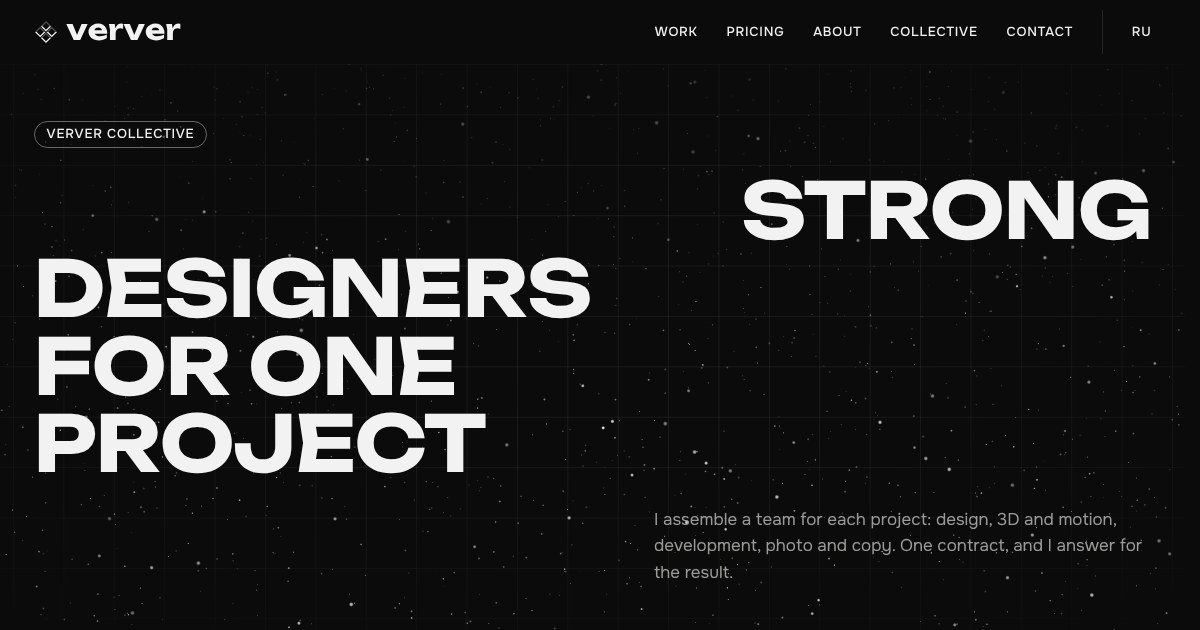
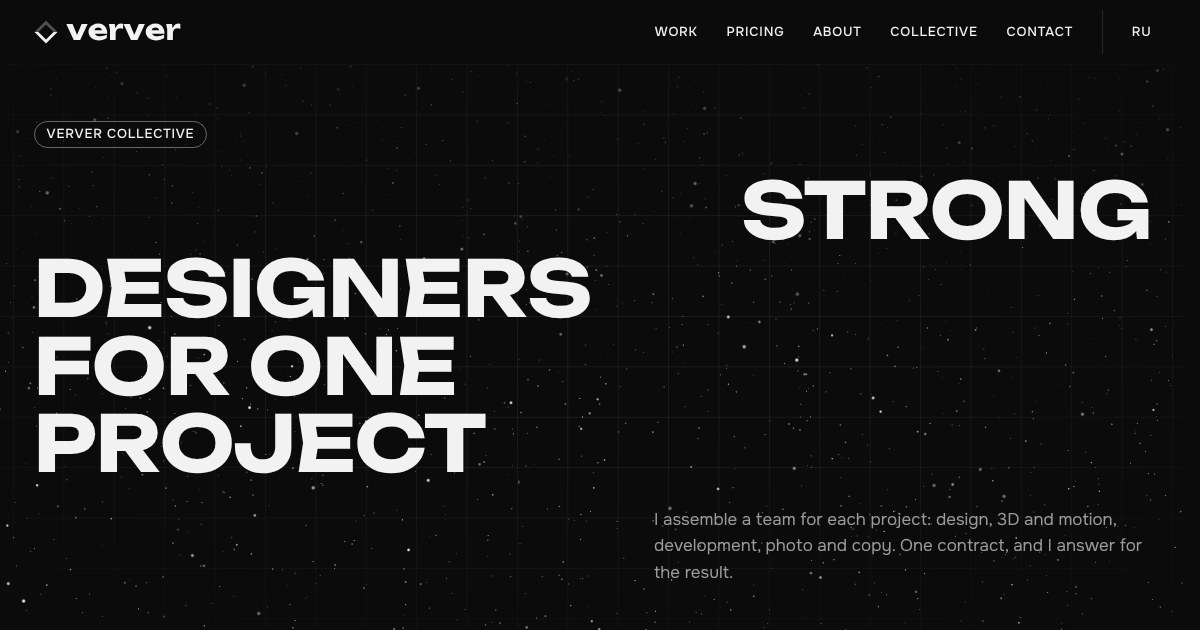
Знак «Объединения» пока убран (verver: повременим), обложка без него
Варианты знака сохранены патчем в папке проекта sites/portfolio/obedinenie/znak/patches/.

Claude-Session: https://claude.ai/code/session_01EqjaGEMsxfvaRW2MYHcQtJ

Changed region(s): [[0.0308, 0.0302, 0.0617, 0.0603]]

diff --git a/components/Logo.tsx b/components/Logo.tsx
@@ -1,26 +1,12 @@
 import { MARK_BOTTOM, MARK_TOP, WORD_PATH } from "@/lib/brand";
-import s from "./Logo.module.css";
 
 // Знак и надпись одним SVG: цвет берётся от текста (currentColor), верх ромба полупрозрачный.
 // mark — только ромб (аватарка, иконка), word — только надпись.
-// team — знак «Объединения»: ромб раскладывается на несколько ромбов, когда у предка есть
-// data-team-on (шапка на странице /collective/). Варианты раскладки — в TEAM ниже.
-export type TeamVariant = keyof typeof TEAM;
-
-export function Logo({
-  variant = "full",
-  className,
-  team,
-}: {
-  variant?: "full" | "mark" | "word";
-  className?: string;
-  team?: TeamVariant;
-}) {
-  const mark = team ? <TeamMark variant={team} /> : <Mark />;
+export function Logo({ variant = "full", className }: { variant?: "full" | "mark" | "word"; className?: string }) {
   if (variant === "mark") {
     return (
-      <svg className={className} viewBox="-50 -50 100 100" overflow="visible" aria-hidden="true" focusable="false">
-        {mark}
+      <svg className={className} viewBox="-50 -50 100 100" aria-hidden="true" focusable="false">
+        <Mark />
       </svg>
     );
   }
@@ -32,8 +18,10 @@ export function Logo({
     );
   }
   return (
-    <svg className={className} viewBox="40 40 5288 862" overflow="visible" aria-hidden="true" focusable="false">
-      <g transform="translate(471 471) scale(8.28)">{mark}</g>
+    <svg className={className} viewBox="40 40 5288 862" aria-hidden="true" focusable="false">
+      <g transform="translate(471 471) scale(8.28)">
+        <Mark />
+      </g>
       <path transform="translate(1199 756.6)" d={WORD_PATH} fill="currentColor" />
     </svg>
   );
@@ -44,63 +32,6 @@ function Mark() {
     <>
       <polygon points={MARK_TOP} fill="currentColor" style={{ fillOpacity: "var(--mark-top)" }} />
       <polygon points={MARK_BOTTOM} fill="currentColor" />
-    </>
-  );
-}
-
-// Плитка — тот же ромб, сдвинутый (x, y в единицах знака шириной 100) и уменьшенный (s), с прозрачностью o.
-// Первая плитка видна и в покое (это обычный знак), остальные появляются из-под неё.
-// s0 — размер в покое: 0, если плитка вылетает из центра.
-type Tile = { x: number; y: number; s: number; o?: number; s0?: number };
-const TEAM = {
-  // «Трое»: ромб уменьшается, по бокам из-под него выходят ещё два, полупрозрачные
-  a: [
-    { x: 0, y: 0, s: 0.48 },
-    { x: -27, y: 0, s: 0.46, o: 0.5 },
-    { x: 27, y: 0, s: 0.46, o: 0.5 },
-  ],
-  // «Мозаика»: ромб распадается на четыре ромба поменьше, вместе они держат ту же форму
-  b: [
-    { x: 0, y: 25, s: 0.46 },
-    { x: 0, y: -25, s: 0.46 },
-    { x: -25, y: 0, s: 0.46 },
-    { x: 25, y: 0, s: 0.46 },
-  ],
-  // «Искры»: ромб чуть сжимается, из него вылетают три маленьких ромба, как искры со страницы
-  c: [
-    { x: -6, y: 0, s: 0.8 },
-    { x: 38, y: -30, s: 0.16, s0: 0 },
-    { x: 47, y: 6, s: 0.12, s0: 0 },
-    { x: 33, y: 32, s: 0.2, s0: 0 },
-  ],
-} satisfies Record<string, Tile[]>;
-
-function TeamMark({ variant }: { variant: TeamVariant }) {
-  const tiles: Tile[] = TEAM[variant];
-  // главную плитку рисуем последней, чтобы она лежала сверху
-  return (
-    <>
-      {tiles
-        .map((t, i) => (
-          <g
-            key={i}
-            className={s.tile}
-            data-main={i === 0 || undefined}
-            style={
-              {
-                "--x": t.x,
-                "--y": t.y,
-                "--s": t.s,
-                "--o": t.o ?? 1,
-                "--s0": t.s0 ?? 1,
-                "--i": i,
-              } as React.CSSProperties
-            }
-          >
-            <Mark />
-          </g>
-        ))
-        .reverse()}
     </>
   );
 }

diff --git a/components/Header.tsx b/components/Header.tsx
@@ -3,10 +3,10 @@
 // Текущий раздел подчёркнут (у «Работ» ещё и страницы кейсов).
 import Link from "next/link";
 import { usePathname } from "next/navigation";
-import { useEffect, useRef, useState } from "react";
+import { useEffect, useRef } from "react";
 import { dict } from "@/lib/dict";
 import { href, langOf, stripLang } from "@/lib/i18n";
-import { Logo, type TeamVariant } from "./Logo";
+import { Logo } from "./Logo";
 import { MobileMenuLazy } from "./MobileMenuLazy";
 import s from "./Header.module.css";
 
@@ -29,14 +29,6 @@ export function Header() {
   const known = /^\/((works|prices|about|contact|privacy|collective)\/?|cases\/[^/]+\/?)?$/.test(path);
   const items = sections.map((it) => ({ ...it, label: t.nav[it.key], href: href(lang, it.to) }));
   const ref = useRef<HTMLElement>(null);
-  // на странице «Объединения» знак раскладывается на несколько ромбов (components/Logo.tsx)
-  const team = /^\/collective\/?$/.test(path);
-  // пока выбираем раскладку: ?mark=a|b|c
-  const [teamVariant, setTeamVariant] = useState<TeamVariant>("b");
-  useEffect(() => {
-    const v = new URLSearchParams(location.search).get("mark");
-    if (v === "a" || v === "b" || v === "c") setTeamVariant(v);
-  }, []);
 
   // язык страницы для экранных дикторов и переводчика браузера (переход между языками идёт без перезагрузки)
   useEffect(() => {
@@ -83,9 +75,9 @@ export function Header() {
   return (
     <header ref={ref} className={s.header} data-header>
       <div className={`${s.in} wrap`}>
-        <Link className={s.mark} href={href(lang, "/")} aria-label={t.nav.home} data-team-on={team || undefined}>
-          <Logo className={s.full} team={teamVariant} />
-          <Logo variant="mark" className={s.short} team={teamVariant} />
+        <Link className={s.mark} href={href(lang, "/")} aria-label={t.nav.home}>
+          <Logo className={s.full} />
+          <Logo variant="mark" className={s.short} />
         </Link>
         <div className={s.right}>
           <nav className={s.nav} aria-label={t.nav.label}>
